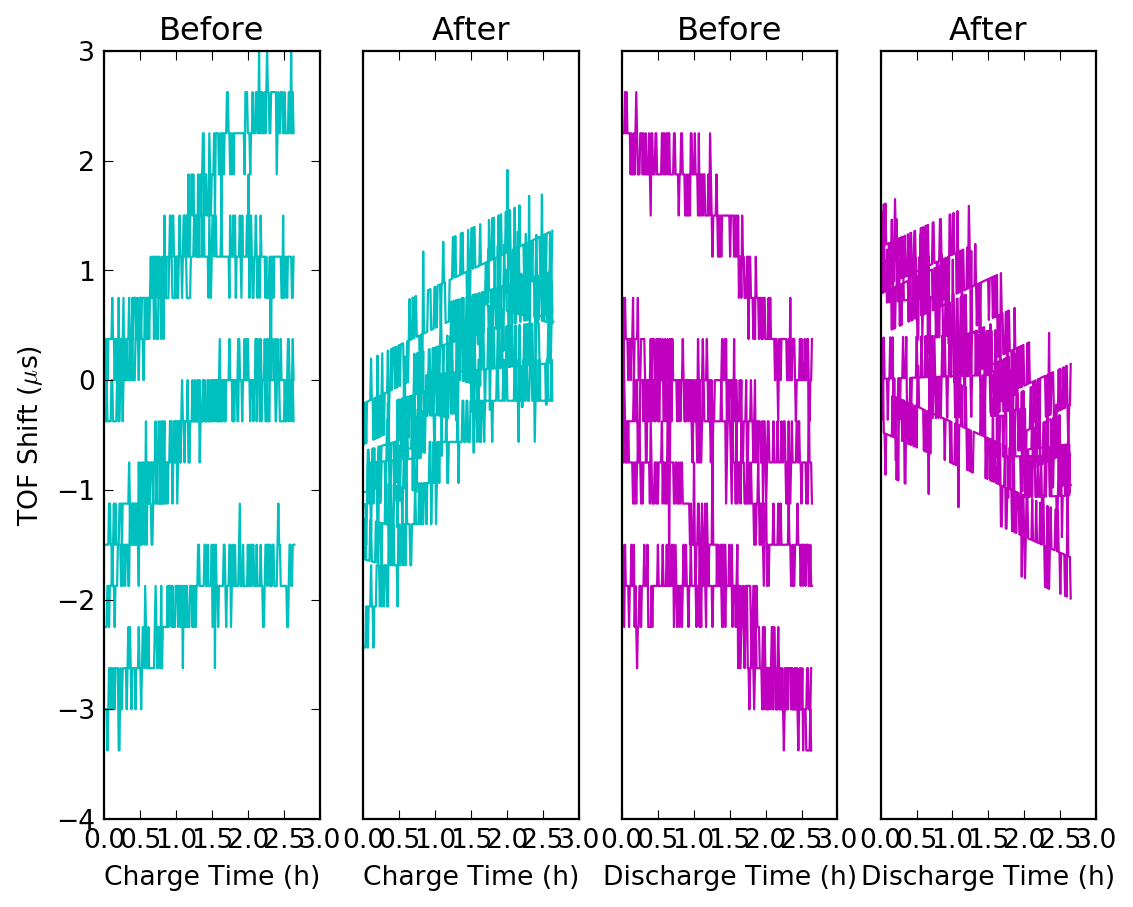
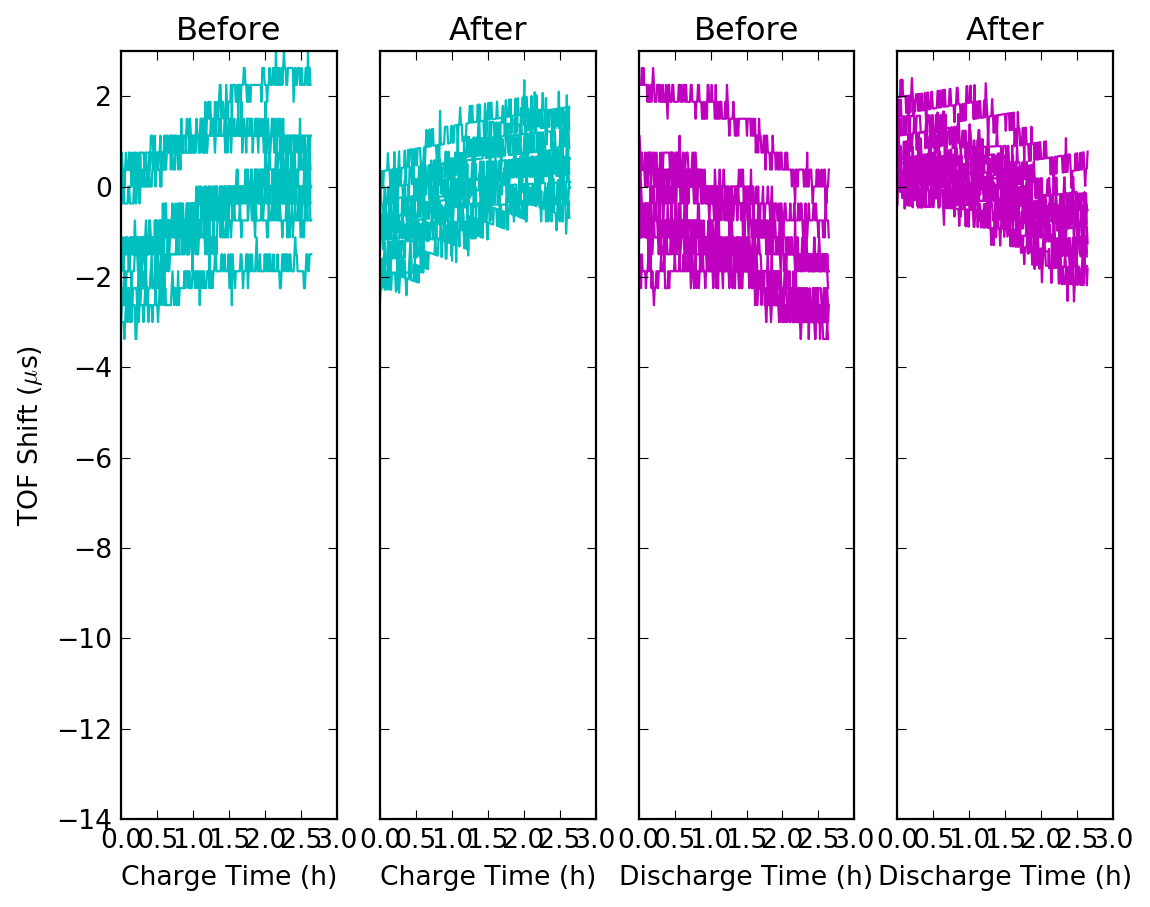
"final" experiment C and D plots, CAD pics

diff --git a/Thesis/apparatus.tex b/Thesis/apparatus.tex
@@ -56,12 +56,21 @@ For reflected waves, it is clear that the relative magnitude of the two impedanc
 %% STRUCTURE %%
 %%
 \section{Structure}
-\todo{PIC cad ass whole}
+\begin{figure}[t]\label{fig:unexploded}
+    \includegraphics[width=0.95\textwidth]{Thesis/unexploded.PNG}
+    \centering
+    \caption{The apparatus made for the experiment; thermal chamber and electronics not shown.}
+\end{figure}
 
 The basic apparatus is a pair of blocks mounted to a rail. A row of holes is drilled into the blocks to hold an array of ultrasonic transducers, with channels milled out for routing their cables. A small plate with its own set of holes and channels bolts to this block to hold the transducers in place. Bolting to this plate is a small cylinder of Rexolite (a nylon variant), used as a low-interference medium for manipulating the travel distance of the ultrasonic waves to eliminate near-field effects, as will be discussed in greater detail later.
 
-\todo{PIC cad part block}
-Behind the first set of holes in the block is a second set of narrower holes, for spring-loading the transducers. The springs ensure the transducers are pressed against the face of the transfer medium. The faces of the Rexolite cylinders are turned flat so that the transducer emits and receives waves at an angle perpendicular to the test article. \todo{PIC cad part plate} The plate further facilitates keeping everything coaxial. The three parts bolt together using one set of bolts which pass through all three, ensuring a tight, flat fit \todo{PIC subass block plate Rexolite ducers bolts}. This both keeps the transducers perpendicular to the test article and coaxial with each each other, as well as preventing any disruptive air from getting in the path of the ultrasonic waves, allowing unnecessary attenuation to reduce the quality of the data. 
+\begin{figure}[t]\label{fig:clamp}
+    \includegraphics[width=0.75\textwidth]{Thesis/clamp.PNG}
+    \centering
+    \caption{An exploded view of the clamp used to keep the transducers properly aligned, and their waves in the far-field while transmitting through the cell.}
+\end{figure}
+
+Behind the first set of holes in the block is a second set of narrower holes, for spring-loading the transducers. The springs ensure the transducers are pressed against the face of the transfer medium. The faces of the Rexolite cylinders are turned flat so that the transducer emits and receives waves at an angle perpendicular to the test article. The plate further facilitates keeping everything coaxial. The three parts bolt together using one set of bolts which pass through all three, ensuring a tight, flat fit. This both keeps the transducers perpendicular to the test article and coaxial with each each other, as well as preventing any disruptive air from getting in the path of the ultrasonic waves, allowing unnecessary attenuation to reduce the quality of the data. 
 
 \subsection{Manufacturing Considerations}
 Aluminum was chosen as the material for the blocks for its durability and machinability. Machinability was important because of the relatively tight tolerances required of these parts. Since the test articles are so thin and the ultrasonic transducers to high-frequency, small differences in actual versus expected transducer position could create insurmountable noise in the readings. Of particular importance were flatness of the various components (so that small angles are not introduced to the transducer position) and accuracy of the hole positions for the transducers relative to each other and to the mounting hole for the piston rod. Additionally, the fit of the holes for the transducers is important; it must be snug enough that they transducers are held perpendicular to the test article and not allowed to rock around, while also allowing free enough translational movement along their center axis for the springs to be able to push them firmly against the transmission medium.
@@ -140,11 +149,9 @@ Its temperature is monitored by three thermocouples.
 
 \section{Electronics}
 
-\todo{flowchart}
-
 Signal is created by a signal generator, per programmed parameters. This is passed through the transducer, which forms it into an acoustic wave. It passes this wave through the test unit to be received by a second transducer opposite it on the other side of the unit. The reading transducer is connected to a signal scope (the Picoscope unit) which reads this signal and reports it to the computer.
 
-Simultaneously, the Neware cycler unit is using a standard four-lead set-up to both induce a load on the cell and to monitor the cell's state. The cycler sends a signal through the leads of the cell via one pair of leads, and uses a second pair of leads to read the cell's current and voltage. Timestamps connect this electrochemical data to the acoustic data.
+The Neware cycler unit uses a standard four-lead set-up to both induce a load on the cell and to monitor the cell's state. The cycler sends a signal through the leads of the cell via one pair of leads, and uses a second pair of leads to read the cell's current and voltage. Timestamps connect this electrochemical data to the acoustic data.
 
 A trio of thermocouples monitors the temperature within the thermal chamber, to ensure that time of flight shifts are due to changes in the cell's state rather than its temperature. These are read across a simple voltage divider and monitored by a microcontroller, with timestamps connecting this thermal data to the electrochemical and acoustic data.
 

diff --git a/Thesis/background.tex b/Thesis/background.tex
@@ -68,9 +68,9 @@ The smaller the wavelength, the smaller a defect in a material that can be detec
 
 \subsection{Prior Work}
 
-Hsieh et al \todo{cite?} performed electrochemical-acoustic time-of-flight (EAToF) experiments on batteries of various chemistries and form factors, demonstrating "strong correlation between SOC and the density distribution within a cell, as determined by acoustic measurements" \cite{TOF-STATE}. They go on to conclude that "changes in the ToF echo profiles and acoustic signal amplitudes as a function of cycle number appear to be key indicators of central phenomena occurring within the battery, including changes in intraparticle and interparticle stress and strain, as well as the formation and removal of critical surface layers", suggesting but not demonstrating that electrochemical-acoustic ToF analysis can determine a battery cell's state of health.
+Hsieh et al performed electrochemical-acoustic time-of-flight (EAToF) experiments on batteries of various chemistries and form factors, demonstrating "strong correlation between SOC and the density distribution within a cell, as determined by acoustic measurements" \cite{TOF-STATE}. They go on to conclude that "changes in the ToF echo profiles and acoustic signal amplitudes as a function of cycle number appear to be key indicators of central phenomena occurring within the battery, including changes in intraparticle and interparticle stress and strain, as well as the formation and removal of critical surface layers", suggesting but not demonstrating that electrochemical-acoustic ToF analysis can determine a battery cell's state of health.
 
-That assertion was demonstrated in the subsequent paper by Bhadra et al \todo{cite?} \cite{ANODE-CHAR}, which demonstrated the capacity of electrochemical acoustic time-of-flight analysis to "examine the dynamic properties of cells during discharge" "by tracking the saturation of the central echo and secondary echos, the total shift in the ToF peak position over discharge, and total transmitted signal amplitude".
+That assertion was demonstrated in the subsequent paper by Bhadra et al \cite{ANODE-CHAR}, which demonstrated the capacity of electrochemical acoustic time-of-flight analysis to "examine the dynamic properties of cells during discharge" "by tracking the saturation of the central echo and secondary echos, the total shift in the ToF peak position over discharge, and total transmitted signal amplitude".
 
-This work was built on by Davies et al \todo{cite?} \cite{SOC-SOH-EST}, who explored the accuracy of the EAToF method while cycling lithium-ion pouch cells over hundreds of cycles, focusing on "two key metrics: time of flight shift and total signal amplitude, which are the used with voltage data in a supervised machine learning technique to build a model for the state of charge (SOC) prediction". 
+This work was built on by Davies et al \cite{SOC-SOH-EST}, who explored the accuracy of the EAToF method while cycling lithium-ion pouch cells over hundreds of cycles, focusing on "two key metrics: time of flight shift and total signal amplitude, which are the used with voltage data in a supervised machine learning technique to build a model for the state of charge (SOC) prediction". 
 In addition to showing their model was about $99\%$ accurate for two different cell chemistries, they showed that the model can be extended to predict state of health with similar accuracy by adding to the model the full ultrasonic waveforms at top of charge.

diff --git a/Thesis/results.tex b/Thesis/results.tex
@@ -73,8 +73,8 @@ Optical analysis provided quick confirmation that the cell had plated; since the
      \end{subfigure}
 \end{figure}
 
-Three cells were dissected to produce SEM images. Each cell ran through a few 5C charge cycles before finishing with either no 10C cycles, one 10C cycle, or two 10C cycles. 
-The large bulbous objects are particles of the graphite cathode. The tendrils are lithium plating, which forms in snaking dendrites. 
+The cells from Experiments A, B, and C were dissected to produce SEM images. Each cell ran through a few 5C charge cycles before finishing with either no 10C cycles, one 10C cycle, or two 10C cycles. 
+The large bulbous objects are particles of the graphite electrode. The tendrils are lithium plating, which forms in snaking dendrites. 
 The more plating, the denser they become, as shown in \hyperref[fig:sem]{\cref{fig:sem}}.  
 
 It was expected based on the ToF shifts that the 5C cycles caused light plating and the 10C cycles each caused heavy plating, and the SEM images confirmed this; see \hyperref[tab:plating]{\cref{tab:plating}}. 
@@ -124,7 +124,7 @@ The analysis shows a reasonable estimate at how the ToF would shift without the 
 
 \begin{figure}[t!]\label{fig:adj}
 \centering
-\caption{ToF Shift across Experiments C (left) and D (right). This plot compares the unaltered ToF shift, the ToF shift adjusted using a change in ToF - change in temperature regression using interpolated temperatures, and the ToF shift adjusted using a regression of maximum change in ToF shifts and averaged temperatures.}
+\caption{ToF Shift across Experiments C and D. This plot compares the unaltered ToF shift, the ToF shift adjusted using a change in ToF - change in temperature regression using interpolated temperatures, and the ToF shift adjusted using a regression of maximum change in ToF shifts and averaged temperatures. The horizontal lines represent the baseline ToF that, in idealized conditions, would be observed during the rest between discharge and charge cycles.}
      \begin{subfigure}
          \centering
          \includegraphics[width=0.45\textwidth]{Thesis/0409adj.png}
@@ -132,7 +132,7 @@ The analysis shows a reasonable estimate at how the ToF would shift without the 
      \hfill
      \begin{subfigure}
          \centering
-         \includegraphics[width=0.45\textwidth]{0417tofshiftadj.png}
+         \includegraphics[width=0.45\textwidth]{Thesis/0417adj.png}
      \end{subfigure}
 \end{figure}
 

diff --git a/Thesis/procedure.tex b/Thesis/procedure.tex
@@ -22,12 +22,8 @@ The rests between and within cycles allow for the cell to reach new steady-state
 There was a potential for the cell to experience somewhat significant transient effects due to phenomena such as the heat addition or structural stiffening experienced during the oxidation-reduction reaction of cyclic charging and discharging; the rest cycles give the cell time to relax and modulate.
 The full rest-charge-rest-discharge sequence was repeated for a total of five cycles.
 
-\todo{flowchart}
-
 Unfortunately, the assumption that the ambient conditions were steady did not hold, leading to considerable noise in the in the readings due to environmental interference. The noise ultimately drowned the acoustic ToF signal.
 
-\todo{insert plots?}
-    
 \subsection{Acoustic Monitoring of Cell at Rest in Unsteady Conditions}\label{chamberTest}
 Since it was impossible to determine the source of changes in ToF data for the prior test, or to determine what was signal and what was noise, a more piecewise approach to building up the experiment was needed. Due to the very small size of the cell, small variations in temperature and pressure could theoretically have relatively large impacts on the speed with which high-frequency acoustic waves travel through the cell. Some possible solutions were: passively or actively controlling the temperature to be much more constant, better regulating the pressure applied to the cell, and using higher frequency transducers to probe the cell. Switching the 2.5MHz transducers for 15MHz transducers was quick and easy since the second set of transducers was already on hand, so this was done for the next experiment. Additionally, the relatively loosely fluctuating ambient temperature was expected to have a relatively large effect on time of flight, so the pressurizing apparatus was inserted into a thermal chamber, as described in \hyperref[thermalChamber]{\cref{thermalChamber}}. The stack pressure variation is expected to a small fraction of an MPa and expensive to improve, so this was left unchanged, to be revisited only if necessary.
 
